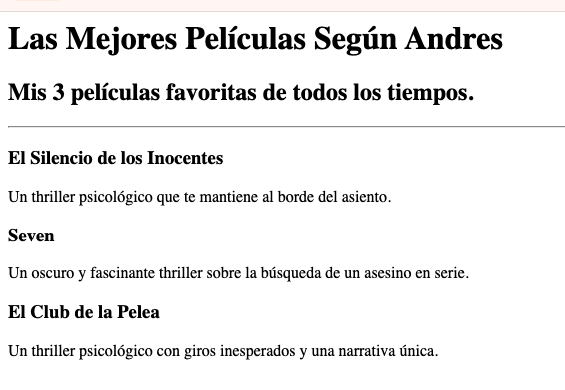
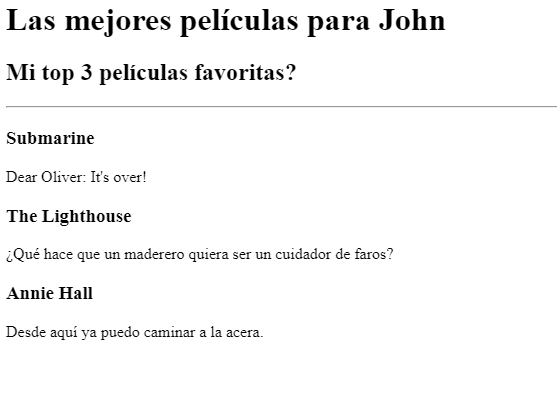
Ejercicio 5 listo

diff --git a/5 Ejercicio HTML Boiler Plate Portafolio/public/about.html b/5 Ejercicio HTML Boiler Plate Portafolio/public/about.html
@@ -1,31 +1,6 @@
 <h1>Sobre Mi</h1>
 <p>
-  Lorem ipsum dolor sit amet, consectetur adipiscing elit. Pellentesque sem
-  tellus, sagittis non odio nec, interdum elementum lacus. Ut ac justo eget
-  risus sollicitudin fringilla sed ut leo. Ut condimentum elit nec fermentum
-  lobortis. Quisque tincidunt quam nec tincidunt ullamcorper. Integer vitae
-  pretium justo. In placerat volutpat pellentesque. Etiam gravida quam vitae
-  odio pulvinar imperdiet. Vivamus venenatis gravida purus sit amet aliquet. Ut
-  in nibh sed quam laoreet lacinia. Cras cursus ut dui vitae posuere. Vivamus
-  volutpat urna vitae odio fringilla placerat. Nulla vel rhoncus sapien.
-  Phasellus at interdum enim.
+Soy John San Martin, ¿qué significa ser yo?, buena pregunta, espero no ser modificado por el objeto. 
 </p>
 
-<p>
-  Curabitur elementum sagittis mollis. In porta nec quam ut semper. Nulla
-  volutpat neque quis lacus mattis eleifend. Phasellus et congue odio. Mauris
-  tristique, nisl quis porttitor porttitor, tortor ante mattis ex, at dictum
-  tortor dolor ut sem. Nullam nec libero non ex porta vulputate a eu sapien. In
-  nec bibendum mauris. Fusce iaculis lectus vel magna laoreet gravida.
-</p>
 
-<p>
-  Donec euismod vestibulum arcu, a blandit metus mattis ultrices. Integer quis
-  hendrerit justo. Maecenas sed tempor mi. Fusce egestas urna leo. Mauris
-  viverra sem sed libero egestas, volutpat aliquet magna porta. Quisque id diam
-  sed ipsum interdum sollicitudin id quis augue. Donec congue nisl nec massa
-  ornare imperdiet quis quis odio. Etiam ut volutpat nisl. Vestibulum hendrerit
-  justo nibh, eget consequat magna fermentum finibus. Pellentesque et urna
-  fringilla, rutrum neque in, varius leo. Vestibulum efficitur id massa eget
-  pellentesque.
-</p>

diff --git a/5 Ejercicio HTML Boiler Plate Portafolio/index.html b/5 Ejercicio HTML Boiler Plate Portafolio/index.html
@@ -13,3 +13,26 @@ PISTA para TODO 6: Puedes usar el atributo height configurado a 200 para hacer l
 https://developer.mozilla.org/en-US/docs/Web/HTML/Element/img#attr-height -->
 
 <!-- TODO 7: Añadir los enlaces a las páginas de Contacto y Sobre Mí -->
+
+<!DOCTYPE html>
+<html lang="en">
+    <head>
+        <meta charset="UTF-8">
+        <meta name="viewport" content="width=device-width, initial-scale=1.0" />
+        <title>I me mine</title>
+    </head>
+    <body>
+        <h1>Portafolio de John San Martin</h1>
+        <h2>Soy un Desarrollador Web</h2>
+        <hr>
+        <h2><a href="./public/movie-ranking.html">Proyecto de Clasificación de Películas</a></h2>
+        <img src="./assets/images/movie-ranking.png" alt="Mejores Películas según John" style="height: 320px;">
+
+        <h2><a href="./public/birthday-invite.html">Proyecto de Invitación de Cumpleaños</a></h2>
+        <img src="./assets/images/birthday-invite.png" alt="Invitación de cumpleaños" style="height: 500px;">
+        <h3>
+            <a href="./public/about.html">Sobre Mí</a>
+            <a href="./public/contact.html">Contáctame</a>
+        </h3>
+    </body>
+</html>

diff --git a/5 Ejercicio HTML Boiler Plate Portafolio/public/movie-ranking.html b/5 Ejercicio HTML Boiler Plate Portafolio/public/movie-ranking.html
@@ -1,9 +1,16 @@
-<h1>Las Mejores Películas Según Andres</h1>
-<h2>Mis 3 películas favoritas de todos los tiempos.</h2>
-<hr />
-<h3>El Silencio de los Inocentes</h3>
-<p>Un thriller psicológico que te mantiene al borde del asiento.</p>
-<h3>Seven</h3>
-<p>Un oscuro y fascinante thriller sobre la búsqueda de un asesino en serie.</p>
-<h3>El Club de la Pelea</h3>
-<p>Un thriller psicológico con giros inesperados y una narrativa única.</p>
+<html>
+  <head>
+    <title>Movies</title>
+  </head>
+  <body>
+    <h1>Las mejores películas para John</h1>
+    <h2>Mi top 3 películas favoritas?</h2>
+    <hr />
+    <h3>Submarine</h3>
+    <p>Dear Oliver: It's over!</p>
+    <h3>The Lighthouse</h3>
+    <p>¿Qué hace que un maderero quiera ser un cuidador de faros?</p>
+    <h3>Annie Hall</h3>
+    <p>Desde aquí ya puedo caminar a la acera.</p>
+  </body>
+</html>

diff --git a/5 Ejercicio HTML Boiler Plate Portafolio/public/birthday-invite.html b/5 Ejercicio HTML Boiler Plate Portafolio/public/birthday-invite.html
@@ -1,6 +1,6 @@
 <!-- Esta es una posible solución -->
 <h1>¡Es mi cumpleaños!</h1>
-<h2>El 29 de septiembre</h2>
+<h2>El 05 de abril</h2>
 
 <img
   src="https://raw.githubusercontent.com/appbrewery/webdev/main/birthday-cake3.4.jpeg"

diff --git a/5 Ejercicio HTML Boiler Plate Portafolio/public/contact.html b/5 Ejercicio HTML Boiler Plate Portafolio/public/contact.html
@@ -1,6 +1,6 @@
 <h1>Contacto</h1>
 <p>Tel: +123456789</p>
-<p>Email: me@gmail.com</p>
+<p>Email: john@gmail.com</p>
 <p>Address:</p>
 <p>
   12 de octubre<br />
